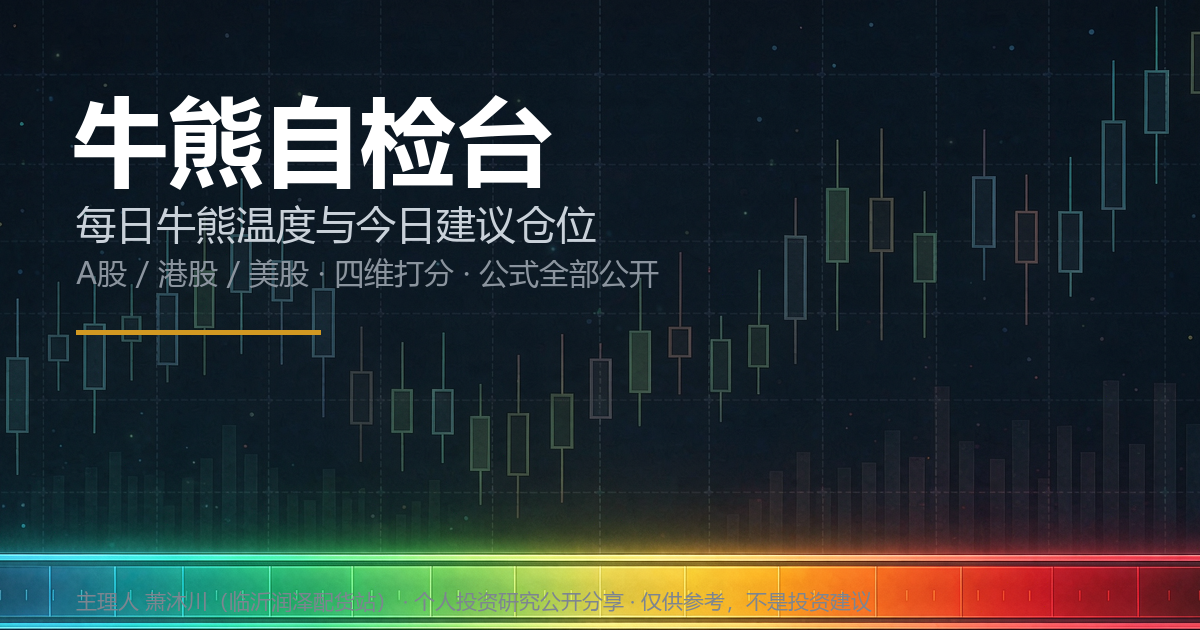
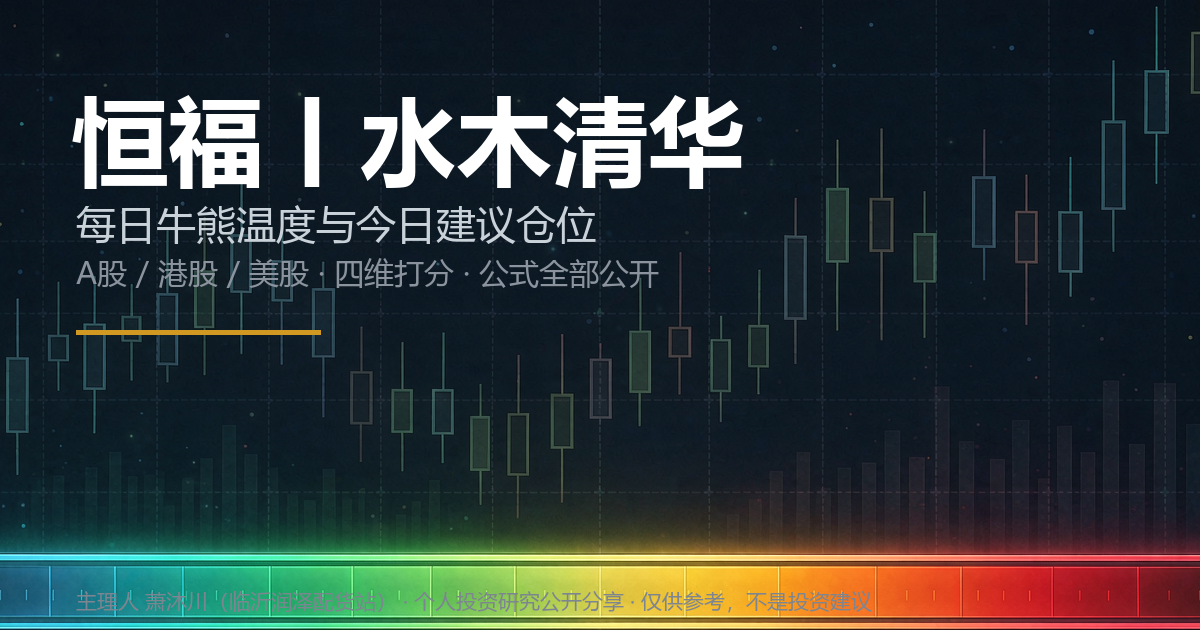
feat(品牌): 全站「牛熊自检台」统一改名「恒福丨水木清华」
用户指令：链接中出现牛熊自检台全部改成恒福丨水木清华（含后台所有内容）。
- 站点：index/history/404 三页 title+og+twitter+JSON-LD+导航+页脚；robots/sitemap
- 前端：ui.js SITE_NAME 全局常量、tokens.css --site-name、4个JS文件头注释
- compute.js 仅改第2行注释，逻辑零改动（git diff 单行+node --check+真实数据冒烟 温度5.08）
- og 分享图重新生成（恒福丨水木清华主标题，1200x630）
- 后台脚本：make_og_cover/update_data/verify_compute、update-data.yml 注释
合计35处文本替换+1图重生，全仓零残留

Changed region(s): [[0.0617, 0.1508, 0.6167, 0.3016]]

diff --git a/docs/niuxiong-zijiantai/index.html b/docs/niuxiong-zijiantai/index.html
@@ -3,24 +3,24 @@
 <head>
   <meta charset="UTF-8" />
   <meta name="viewport" content="width=device-width, initial-scale=1" />
-  <title>牛熊自检台 | 每日牛熊温度与仓位建议</title>
+  <title>恒福丨水木清华 | 每日牛熊温度与仓位建议</title>
   <meta name="description" content="每天自动更新 A股、港股、美股的牛熊温度和今日建议仓位。用看得懂的大白话，帮散户开盘前确认今天该拿几成仓——仅供参考，不是投资建议。" />
   <meta name="keywords" content="牛熊温度,今日牛熊温度,A股牛熊温度,每日仓位建议,牛熊温度怎么看,牛熊钟,四维打分,牛熊每日自查" />
   <link rel="canonical" href="https://niuxiong123.github.io/-2026/niuxiong-zijiantai/" />
   <!-- Open Graph -->
   <meta property="og:type" content="website" />
   <meta property="og:locale" content="zh_CN" />
-  <meta property="og:site_name" content="牛熊自检台" />
-  <meta property="og:title" content="牛熊自检台｜每日牛熊温度与仓位建议" />
+  <meta property="og:site_name" content="恒福丨水木清华" />
+  <meta property="og:title" content="恒福丨水木清华｜每日牛熊温度与仓位建议" />
   <meta property="og:description" content="开盘前看一眼，今天该拿几成仓。大白话把市场冷热揉成一个能看懂的数。" />
   <meta property="og:url" content="https://niuxiong123.github.io/-2026/niuxiong-zijiantai/" />
   <meta property="og:image" content="https://niuxiong123.github.io/-2026/niuxiong-zijiantai/assets/img/og-cover.png" />
-  <meta property="og:image:alt" content="牛熊自检台：每日牛熊温度与今日建议仓位" />
+  <meta property="og:image:alt" content="恒福丨水木清华：每日牛熊温度与今日建议仓位" />
   <meta property="og:image:width" content="1200" />
   <meta property="og:image:height" content="630" />
   <!-- Twitter Card -->
   <meta name="twitter:card" content="summary_large_image" />
-  <meta name="twitter:title" content="牛熊自检台｜每日牛熊温度与仓位建议" />
+  <meta name="twitter:title" content="恒福丨水木清华｜每日牛熊温度与仓位建议" />
   <meta name="twitter:description" content="开盘前看一眼，今天该拿几成仓。大白话把市场冷热揉成一个能看懂的数。" />
   <meta name="twitter:image" content="https://niuxiong123.github.io/-2026/niuxiong-zijiantai/assets/img/og-cover.png" />
   <link rel="icon" href="assets/img/favicon.svg" type="image/svg+xml" />
@@ -33,7 +33,7 @@
   {
     "@context": "https://schema.org",
     "@type": "WebSite",
-    "name": "牛熊自检台",
+    "name": "恒福丨水木清华",
     "url": "https://niuxiong123.github.io/-2026/niuxiong-zijiantai/",
     "inLanguage": "zh-CN",
     "description": "每日更新 A股、港股、美股的牛熊温度与建议仓位，开盘前一眼看清今天该拿几成仓。"
@@ -43,7 +43,7 @@
   {
     "@context": "https://schema.org",
     "@type": "Organization",
-    "name": "牛熊自检台",
+    "name": "恒福丨水木清华",
     "url": "https://niuxiong123.github.io/-2026/niuxiong-zijiantai/",
     "logo": "https://niuxiong123.github.io/-2026/niuxiong-zijiantai/assets/img/favicon.svg",
     "description": "个人投资研究公开分享面板，每日更新 A股/港股/美股牛熊温度与今日建议仓位。",
@@ -65,7 +65,7 @@
       <div class="brand">
         <img class="brand__logo" src="assets/img/favicon.svg" alt="" width="28" height="28" />
         <div>
-          <div class="brand__name" data-site-name>牛熊自检台</div>
+          <div class="brand__name" data-site-name>恒福丨水木清华</div>
           <div class="brand__sub">每日牛熊温度与仓位建议</div>
         </div>
       </div>
@@ -184,7 +184,7 @@
               <a class="btn btn--primary" href="./method.html">看温度怎么算出来的</a>
               <a class="btn btn--secondary" href="./history.html">看历史回测</a>
             </div>
-            <p class="footer__meta">牛熊自检台 · 主理人 萧沐川（临沂润泽配货站）· 个人投资研究公开分享 · 仅供参考，不是投资建议</p>
+            <p class="footer__meta">恒福丨水木清华 · 主理人 萧沐川（临沂润泽配货站）· 个人投资研究公开分享 · 仅供参考，不是投资建议</p>
           </div>
         </footer>
       </main>
@@ -195,7 +195,7 @@
   <div class="overlay" id="overlay"></div>
   <nav class="drawer" id="nav-drawer" aria-label="移动导航">
     <div class="drawer__head">
-      <div class="brand__name" data-site-name>牛熊自检台</div>
+      <div class="brand__name" data-site-name>恒福丨水木清华</div>
       <button class="icon-btn" id="drawer-close" aria-label="关闭导航菜单">
         <svg viewBox="0 0 16 16" fill="currentColor" aria-hidden="true"><path d="M3 3l10 10M13 3L3 13" stroke="currentColor" stroke-width="2" fill="none"/></svg>
       </button>

diff --git a/docs/niuxiong-zijiantai/history.html b/docs/niuxiong-zijiantai/history.html
@@ -3,15 +3,15 @@
 <head>
   <meta charset="UTF-8" />
   <meta name="viewport" content="width=device-width, initial-scale=1" />
-  <title>牛熊自检台历史回测 | 模型有没有用</title>
+  <title>恒福丨水木清华历史回测 | 模型有没有用</title>
   <meta name="description" content="用 2015–2026-06 的月度温度对照其后 21 天、63 天的收益，看牛熊温度到底含不含信息量。口径、样本与局限都写清楚，不藏着。" />
   <meta name="keywords" content="牛熊温度回测,温度模型有没有用,仓位建议历史表现,牛熊温度回测图,牛熊每日自查" />
   <link rel="canonical" href="https://niuxiong123.github.io/-2026/niuxiong-zijiantai/history.html" />
   <!-- Open Graph -->
   <meta property="og:type" content="article" />
   <meta property="og:locale" content="zh_CN" />
-  <meta property="og:site_name" content="牛熊自检台" />
-  <meta property="og:title" content="牛熊自检台历史回测｜模型有没有用" />
+  <meta property="og:site_name" content="恒福丨水木清华" />
+  <meta property="og:title" content="恒福丨水木清华历史回测｜模型有没有用" />
   <meta property="og:description" content="温度模型，历史上到底有没有用。口径、样本与局限都写清楚。" />
   <meta property="og:url" content="https://niuxiong123.github.io/-2026/niuxiong-zijiantai/history.html" />
   <meta property="og:image" content="https://niuxiong123.github.io/-2026/niuxiong-zijiantai/assets/img/og-cover.png" />
@@ -19,7 +19,7 @@
   <meta property="og:image:height" content="630" />
   <!-- Twitter Card -->
   <meta name="twitter:card" content="summary_large_image" />
-  <meta name="twitter:title" content="牛熊自检台历史回测｜模型有没有用" />
+  <meta name="twitter:title" content="恒福丨水木清华历史回测｜模型有没有用" />
   <meta name="twitter:description" content="温度模型，历史上到底有没有用。口径、样本与局限都写清楚。" />
   <meta name="twitter:image" content="https://niuxiong123.github.io/-2026/niuxiong-zijiantai/assets/img/og-cover.png" />
   <link rel="icon" href="assets/img/favicon.svg" type="image/svg+xml" />
@@ -30,7 +30,7 @@
   {
     "@context": "https://schema.org",
     "@type": "WebSite",
-    "name": "牛熊自检台",
+    "name": "恒福丨水木清华",
     "url": "https://niuxiong123.github.io/-2026/niuxiong-zijiantai/",
     "inLanguage": "zh-CN"
   }
@@ -39,7 +39,7 @@
   {
     "@context": "https://schema.org",
     "@type": "Organization",
-    "name": "牛熊自检台",
+    "name": "恒福丨水木清华",
     "url": "https://niuxiong123.github.io/-2026/niuxiong-zijiantai/",
     "logo": "https://niuxiong123.github.io/-2026/niuxiong-zijiantai/assets/img/favicon.svg",
     "description": "个人投资研究公开分享面板，每日更新 A股/港股/美股牛熊温度与今日建议仓位。",
@@ -51,11 +51,11 @@
   {
     "@context": "https://schema.org",
     "@type": "Article",
-    "headline": "牛熊自检台历史回测：牛熊温度模型到底有没有用",
+    "headline": "恒福丨水木清华历史回测：牛熊温度模型到底有没有用",
     "author": { "@type": "Person", "name": "萧沐川", "alternateName": "xiaomuchuan" },
     "publisher": {
       "@type": "Organization",
-      "name": "牛熊自检台",
+      "name": "恒福丨水木清华",
       "logo": { "@type": "ImageObject", "url": "https://niuxiong123.github.io/-2026/niuxiong-zijiantai/assets/img/favicon.svg" }
     },
     "datePublished": "2026-10-11",
@@ -73,7 +73,7 @@
       <div class="brand">
         <img class="brand__logo" src="assets/img/favicon.svg" alt="" width="28" height="28" />
         <div>
-          <div class="brand__name" data-site-name>牛熊自检台</div>
+          <div class="brand__name" data-site-name>恒福丨水木清华</div>
           <div class="brand__sub">每日牛熊温度与仓位建议</div>
         </div>
       </div>
@@ -168,7 +168,7 @@
   <div class="overlay" id="overlay"></div>
   <nav class="drawer" id="nav-drawer" aria-label="移动导航">
     <div class="drawer__head">
-      <div class="brand__name" data-site-name>牛熊自检台</div>
+      <div class="brand__name" data-site-name>恒福丨水木清华</div>
       <button class="icon-btn" id="drawer-close" aria-label="关闭导航菜单">
         <svg viewBox="0 0 16 16" fill="currentColor" aria-hidden="true"><path d="M3 3l10 10M13 3L3 13" stroke="currentColor" stroke-width="2" fill="none"/></svg>
       </button>

diff --git a/docs/niuxiong-zijiantai/404.html b/docs/niuxiong-zijiantai/404.html
@@ -3,7 +3,7 @@
 <head>
   <meta charset="UTF-8" />
   <meta name="viewport" content="width=device-width, initial-scale=1" />
-  <title>404 | 牛熊自检台</title>
+  <title>404 | 恒福丨水木清华</title>
   <meta name="robots" content="noindex" />
   <link rel="icon" href="/-2026/niuxiong-zijiantai/assets/img/favicon.svg" type="image/svg+xml" />
   <link rel="stylesheet" href="/-2026/niuxiong-zijiantai/assets/css/tokens.css" />
@@ -12,7 +12,7 @@
 <body>
   <main class="page-404">
     <div class="page-404__code">404</div>
-    <p class="page-404__msg">页面走丢了。牛熊自检台的仓位面板在首页。</p>
+    <p class="page-404__msg">页面走丢了。恒福丨水木清华的仓位面板在首页。</p>
     <div style="display:flex;gap:12px;flex-wrap:wrap;justify-content:center;margin-top:16px">
       <a class="btn btn--primary" href="/-2026/niuxiong-zijiantai/">返回首页</a>
       <a class="btn btn--secondary" href="/-2026/niuxiong-zijiantai/method.html">看方法论</a>

diff --git a/docs/niuxiong-zijiantai/assets/js/ui.js b/docs/niuxiong-zijiantai/assets/js/ui.js
@@ -1,8 +1,8 @@
 // ui.js —— 渲染层（温度卡/仓位卡/牛熊钟/四维/行情条/明细表/状态灯/标灰）
-// 站点：牛熊自检台。规范依据：design-spec.md + content-plan.md 首页区块顺序。
+// 站点：恒福丨水木清华。规范依据：design-spec.md + content-plan.md 首页区块顺序。
 import { QUOTE_FIELDS, BASELINE_SNAPSHOT } from './fetcher.js';
 
-export const SITE_NAME = '牛熊自检台';
+export const SITE_NAME = '恒福丨水木清华';
 
 // macro 字段中文名（明细表 / 可读标签）
 const FIELD_LABELS = {

diff --git a/docs/niuxiong-zijiantai/assets/css/tokens.css b/docs/niuxiong-zijiantai/assets/css/tokens.css
@@ -3,8 +3,8 @@
  * 站点名常量（ui-designer 预留，前端不得硬编码，统一在此处定义）
  */
 :root {
-  /* —— 站点名（content-plan 定名 A「牛熊自检台」）—— */
-  --site-name: "牛熊自检台";
+  /* —— 站点名（content-plan 定名 A「恒福丨水木清华」）—— */
+  --site-name: "恒福丨水木清华";
 
   /* —— 浅色壳 token（site-spec §7 冻结值） —— */
   --color-canvas: #f6f8fa;

diff --git a/docs/niuxiong-zijiantai/assets/js/fetcher.js b/docs/niuxiong-zijiantai/assets/js/fetcher.js
@@ -1,5 +1,5 @@
 // fetcher.js —— 三 JSON 拉取 + 降级 + 内置基线快照常量
-// 站点：牛熊自检台（docs/ 根，GitHub Pages）
+// 站点：恒福丨水木清华（docs/ 根，GitHub Pages）
 // 规范依据：site-spec.md §5.1 / §5.4 / §6.8 ；design-spec.md §2.7
 //
 // 职责边界（与 compute.js 分工，避免重复逻辑）：

diff --git a/docs/niuxiong-zijiantai/assets/js/main.js b/docs/niuxiong-zijiantai/assets/js/main.js
@@ -1,5 +1,5 @@
 // main.js —— 入口：fetch → compute → render；刷新按钮；移动抽屉导航
-// 站点：牛熊自检台（首页仪表盘）
+// 站点：恒福丨水木清华（首页仪表盘）
 import { fetchAll } from './fetcher.js';
 import { computeAll } from './compute.js';
 import * as ui from './ui.js';

diff --git a/docs/niuxiong-zijiantai/assets/js/compute.js b/docs/niuxiong-zijiantai/assets/js/compute.js
@@ -1,5 +1,5 @@
 // compute.js —— 计算引擎（site-spec §5.3 契约唯一实现处 / §6 算法逐字实现）
-// 站点：牛熊自检台
+// 站点：恒福丨水木清华
 //
 // 纯前端、无网络请求。输入 macro.data（含降级填充）+ quotes.json，输出 PositionResult。
 // 设计说明：

diff --git a/scripts/update_data.py b/scripts/update_data.py
@@ -1,7 +1,7 @@
 #!/usr/bin/env python3
 # -*- coding: utf-8 -*-
 """
-update_data.py —— 牛熊自检台 每日数据自动更新（GitHub Actions 触发）
+update_data.py —— 恒福丨水木清华 每日数据自动更新（GitHub Actions 触发）
 =========================================================================
 
 职责
@@ -272,7 +272,7 @@ def self_test():
 
 
 def main():
-    ap = argparse.ArgumentParser(description="牛熊自检台 数据更新")
+    ap = argparse.ArgumentParser(description="恒福丨水木清华 数据更新")
     ap.add_argument("--demo", action="store_true", help="离线演示占位 quotes.json")
     ap.add_argument("--seed", action="store_true", help="额外生成 macro/backtest 占位版（会覆盖）")
     ap.add_argument("--dry-run", action="store_true", help="只打印，不落盘")

diff --git a/scripts/make_og_cover.py b/scripts/make_og_cover.py
@@ -16,7 +16,7 @@ def font(sz, bold=True):
     return ImageFont.truetype(p, sz)
 
 # 顶部主标题区（背景留白区）
-d.text((72, 74), "牛熊自检台", font=font(96), fill="#ffffff")
+d.text((72, 74), "恒福丨水木清华", font=font(96), fill="#ffffff")
 d.text((76, 196), "每日牛熊温度与今日建议仓位", font=font(40, bold=False), fill="#c9d1d9")
 d.text((76, 252), "A股 / 港股 / 美股 · 四维打分 · 公式全部公开", font=font(30, bold=False), fill="#8b949e")
 
